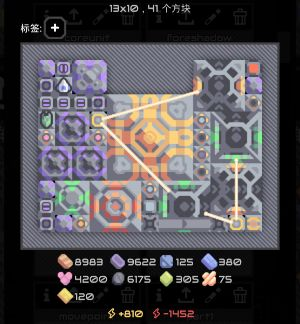
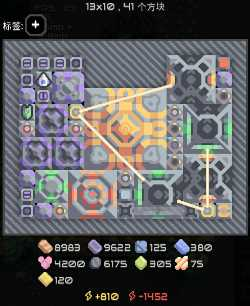
Update movepoint

diff --git a/README.md b/README.md
@@ -55,7 +55,7 @@
 <details><summary>展开相关蓝图</summary>
 
 ##### 供弹模板
-容器、处理器、开关与装卸器是必要的，其他部分均可自由搭配。如果你想调整位置，则需要重新配置处理器。
+容器、处理器、开关与装卸器是必要的，其他部分均可自由搭配。如果你想调整位置，则需要重新配置处理器。<br>
 
 [获取模板](https://cdn.jsdelivr.net/gh/Hexrotor/Mindustry-Myblueprint/base64text/remotesup.txt)
 
@@ -114,6 +114,7 @@
 
 #### 跟随四联v1.1
 一个较为完善的跟随逻辑，四个处理器分别控制陆辅T1~T4。通过"电弧"操控单位前往指定坐标攻击或跟随玩家攻击，可远程追踪玩家，距离超过50启动boost。玩家未控制时自动攻击敌人，但不会攻击敌方建筑。注意不要进入石油、深水区域。<br>
+每种单位的参数不一致，若不想控制所有单位，可以只保留对应单位的处理器。电弧和内存是必要的。<br>
 
 **没有调用冲突检测！**<br>
 [获取](https://cdn.jsdelivr.net/gh/Hexrotor/Mindustry-Myblueprint/base64text/followplayer1.1.txt)
@@ -124,11 +125,13 @@
   
 </details>
 
-#### 集群攻击v1.1
-控制一种单位(默认Arkyid)Pathfind并攻击范围内的敌方炮塔与核心，或召唤设定范围内的同类友军群攻敌人，带远程追踪（不能避障，当所有单位未在敌人范围内超过timeout设定的时间，退出追踪模式）。通过操控"电弧"可控制单位：长按任意区域进入玩家控制模式，再次长按退出控制。某种程度上此逻辑兼容任何单位。<br>
+#### 单位AI增强(集群攻击)v1.1
+某种程度上此逻辑比内置的单位AI更强，它具有如下行为：<br>
+控制一种单位(默认Arkyid)Pathfind并群攻范围内的敌人、敌方炮塔与核心，若一个单位发现敌人，它会"召唤"设定范围内的同类友军群攻敌人，带远程追踪（不能避障，当所有单位未在敌人范围内超过timeout设定的时间，取消追踪）。通过操控"电弧"可控制单位：长按任意区域(开炮)进入玩家控制模式，再次长按(开炮)退出控制。只要参数设置合理，就能驾驭任何单位。<br>
 
 优先级：玩家控制>打范围内敌人>打范围内核心>打范围内炮塔>pathfind<br>
-可控变量：$聚集半径、$援军半径、$timeout<br>
+可控参数：$聚集半径、$援军半径、$timeout、$UnitBind<br>
+关于<code>$聚集半径</code>，我没有选择自动检测单位攻击范围，例如Arkyid的的范围肯定不止5格，但它发射的激光才是它最强的武器，而激光的范围只有大约8格，且闪电球对空中目标没有伤害。经过多次实验，我将其设置为5格。<br>
 
 **没有调用冲突检测！**<br>
 [获取](https://cdn.jsdelivr.net/gh/Hexrotor/Mindustry-Myblueprint/base64text/arkyid.txt)
@@ -139,9 +142,11 @@
 
 </details>
 
-#### 坐标移动
+#### 坐标移动(20210813)
 控制一种单位按记录的坐标顺序移动。左开关开，控制"电弧"开炮来记录坐标；右开关开，则使设定的单位(雷霆)按坐标顺序移动。当左开关关闭，坐标记录会清空；当左开关关闭，右开关开启，会同时恢复单位flag为0。由于内存上限，最多记录32个点。<br>
+<code>$判定半径</code>是指单位位于记录点的该半径内时，跳转到下一点。该值能在单位较多的时候降低延迟。比如24台轰炸机集体出动，则设置为30以上效果较好。<br>
 请注意，如果你记录了无法达到的坐标，单位会卡住。<br>
+右侧处理器可控参数：$UnitBind、$判定半径<br>
 
 **没有调用冲突检测！**<br>
 [获取](https://cdn.jsdelivr.net/gh/Hexrotor/Mindustry-Myblueprint/base64text/movepoint.txt)
@@ -165,10 +170,8 @@
 </details>
 
 #### 钍炸弹
-利用爆炸的钍堆消灭周围的一切。自动调用星辉或独影装填钍，钍堆生
-命值低于500自动引爆，可手动引爆。<br>
-按钮的功能：左侧按钮解除热量限制，即引爆；右侧按钮选择调用星辉
-或独影，默认为星辉。<br>
+利用爆炸的钍堆消灭周围的一切。自动调用星辉或独影装填钍，钍堆生命值低于500自动引爆，可手动引爆。<br>
+按钮的功能：左侧按钮解除热量限制，即引爆；右侧按钮选择调用星辉或独影，默认为星辉。<br>
 
 **仅调用闲置的单位，调用的单位会被赋予随机flag值以供其余处理器区分，结束后恢复flag值为0。当心你的支援单位被误伤！**<br>
 [获取](https://cdn.jsdelivr.net/gh/Hexrotor/Mindustry-Myblueprint/base64text/autoboom.txt)
@@ -274,7 +277,7 @@
 
 Notice: 距离匹配造成匹配效率降低，现默认关闭。要启用，请更改<code>$跳过距离匹配</code>的布尔值。<br>
 
-处理器内允许自定义的值: $坐标误差、$仓库、$物品最大值、$物品最小值、$单位配对码、$搜索半径倍数、$跳过距离匹配
+处理器内允许自定义的值: $坐标误差、$仓库、$物品最大值、$物品最小值、$单位配对码、$搜索半径倍数、$跳过距离匹配<br>
 
 **没有调用冲突检测！调用单位可自行修改，仅调用符合条件的单位，调用中的单位会被赋予唯一flag值以供其余处理器区分。请注意单位的payload容量。**<br>
 [获取](https://cdn.jsdelivr.net/gh/Hexrotor/Mindustry-Myblueprint/base64text/paytrans.txt)
@@ -286,7 +289,7 @@ Notice: 距离匹配造成匹配效率降低，现默认关闭。要启用，请
 
 </details>
 
-#### T2神风核心
+#### T2神风核心(20210813)
 集成了[坐标移动](#坐标移动)、[单位带货](#单位带货)、[幻型修复经典版](#幻型修复经典版)。自动控制幻型的生产，默认生产2个，可调。<br>
 左下处理器可自定义的值：$幻型数量<br>
 **由于集成了多个逻辑，请去各逻辑描述处查看注意事项。**<br>
